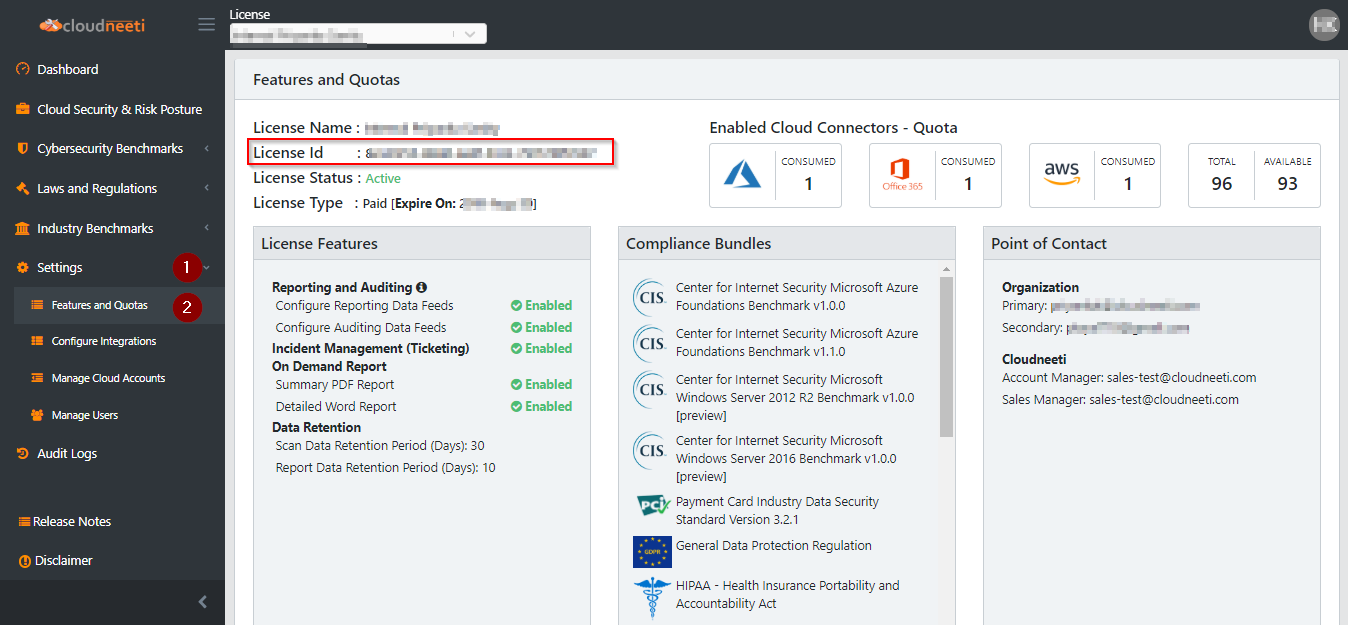
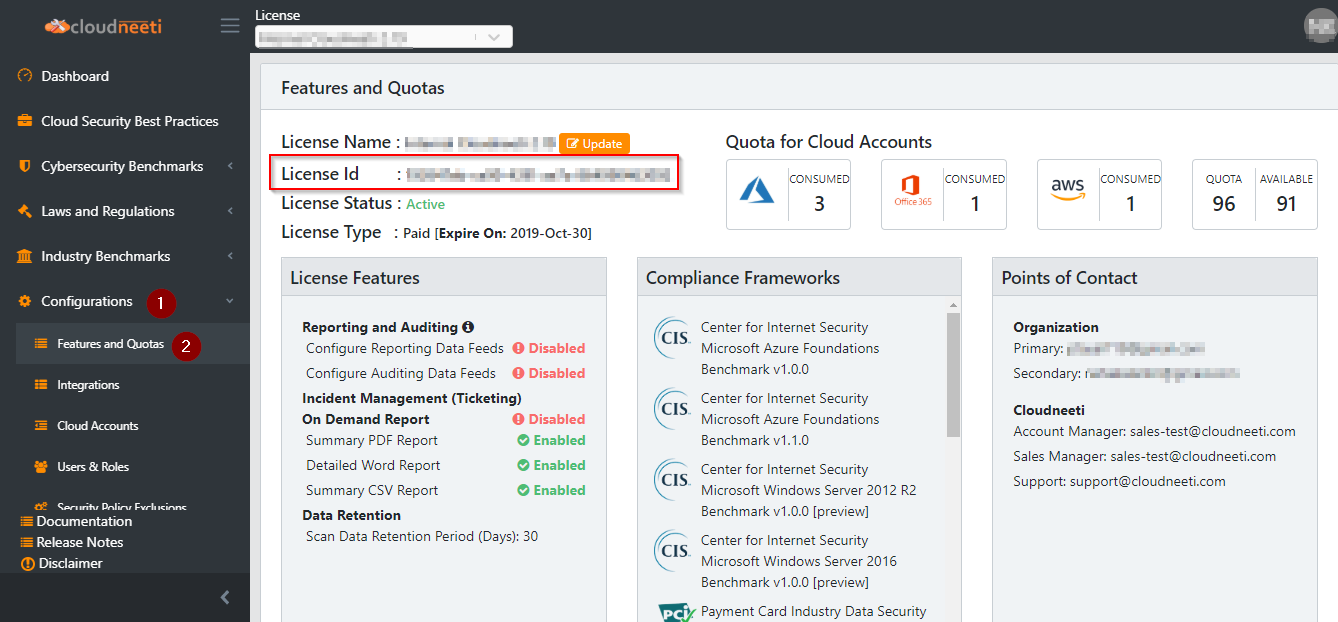
Task 12186 - Updated sequence in 3.1 step added link for enabling MFA

Changed region(s): [[0.0, 0.0, 1.0, 1.0], [0.0, 0.7942, 0.1226, 0.9164], [0.0306, 0.0305, 0.1226, 0.0611]]

diff --git a/docs/onboardingGuide/onboardingOffice365Subscription.md b/docs/onboardingGuide/onboardingOffice365Subscription.md
@@ -84,6 +84,7 @@ this document.
 |-------------------------------------------------|----------------|-------------------|------|
 | Azure Active Directory | Directory Read All Microsoft Graph permissions       | Microsoft Azure   | Global AD Admin    | 
 | Azure Active Directory | Security Events Read All Microsoft Graph permissions | Microsoft Azure   | Global AD Admin    | 
+| Azure Active Directory | DeviceManagementConfiguration.Read.All Microsoft Graph permissions | Microsoft Azure   | Global AD Admin    | 
 | Cloudneeti Agent | Office 365 Global Administrator Access Permission | Microsoft Azure   | Subscription Owner | 
 
 ## STEP 1: Register Cloudneeti Application
@@ -144,6 +145,7 @@ permission [here](https://docs.microsoft.com/en-us/graph/permissions-reference)
 |-----------------|---------------------------------------------------------------------------------------------------------------------|-------------|
 | Microsoft.Graph | Directory.Read.All [Refer here](https://docs.microsoft.com/en-us/graph/permissions-reference#directory-permissions) | Application |
 | Microsoft.Graph | SecurityEvents.Read.All [Refer here](https://docs.microsoft.com/en-us/graph/permissions-reference#security-permissions)                                                                                           | Application |
+| Microsoft.Graph | DeviceManagementConfiguration.Read.All [Refer here](https://docs.microsoft.com/en-us/graph/permissions-reference#intune-device-management-permissions)                                                                                           | Application |
 
 5. Click **Grant admin consent** in the Grant consent section (2)
 	![API Permission](.././images/onboardingOffice365Subscription/Grant_Admin_Consent.png#thumbnail)
@@ -204,6 +206,7 @@ Cloudneeti application to be able to collect the Azure AD data.
 |-----------------|---------------------------------------------------------------------------------------------------------------------|-------------|
 | Microsoft.Graph | Directory.Read.All [Refer here](https://docs.microsoft.com/en-us/graph/permissions-reference#directory-permissions) | Application |
 | Microsoft.Graph | SecurityEvents.Read.All [Refer here](https://docs.microsoft.com/en-us/graph/permissions-reference#security-permissions)  | Application |
+| Microsoft.Graph | DeviceManagementConfiguration.Read.All [Refer here](https://docs.microsoft.com/en-us/graph/permissions-reference#intune-device-management-permissions)                                                                                           | Application |
 
 6. Click **Grant admin consent** in the Grant consent section (2)
 	![Grant_Admin_Consent](.././images/onboardingOffice365Subscription/Grant_Admin_Consent.png#thumbnail)
@@ -330,41 +333,67 @@ Login to Cloudneeti portal as a License Admin.
 
 ##### License id
 
-1. Navigate to **Features and Quotas** under **Settings**
+1. Navigate to **Features and Quotas** under **Configurations**
 2. Copy license ID and paste to notepad.
 	![License id](.././images/onboardingOffice365Subscription/License_Id.png#thumbnail)
 
 ##### Account id
-1. Navigate to **Manage Cloud Accounts** in **Settings**
+1. Navigate to **Cloud Accounts** in **Configurations**
 2. Copy account ID and paste to notepad.
 	![Manage Accounts](.././images/onboardingOffice365Subscription/Manage_Accounts.png#thumbnail)
 
-#### Cloudneeti artifacts and data collector details
-Contact Cloudneeti Team for:
+#### Office 365 details
 
--   Cloudneeti environment
+Office Admin id and office domain can be retrieved from the user id used for
+signing-in like userid\@domain.com.
 
--   ArtifactsName
+Cloudneeti platform queries and processes Office 365 meta-data using a
+non-interactive login credential. As the background job processing is
+non-interactive it’ll require a service account credential. The following is the
+process outlined to create a secure service account credential.
 
--   DataCollectorVersion
+Sign into your Office 365 portal (e.g. <https://outlook.office.com/mail/inbox>)
+as global administrator.
 
--   ArtifactsAccessKey.
+##### Create Office 365 user
+Create Office 365 user with roles **SharePoint Administrator** and **Exchange Administrator**
 
-##### Azure details
+1. Login to [office portal](https://www.office.com)
+2. Click **Admin** to go to **M365 Admin center**
+	
+	![Admin Center](.././images/onboardingOffice365Subscription/M365AdminCenter.png#thumbnail)
 
-Login to Azure portal <https://portal.azure.com> as subscription owner.
+3. Select **Users** 
+4. Click **Add a user**
+5. Fill in Basics and Product License details
 
-##### Azure Subscription ID
+	![Basic info](.././images/onboardingOffice365Subscription/addUser.png#thumbnail)
 
-1. Choose your Azure AD tenant by selecting your **Azure subscription** in the
-    top right corner of the page
-2. Select **Default Directory**
-	![Default Directory](.././images/onboardingOffice365Subscription/Default_Directory.png#thumbnail)
-3. Click on **Subscriptions** (1) on the primary menu
-4. Select the desired **Azure subscription** (2)
-	![Azure subscription](.././images/onboardingOffice365Subscription/Azure_Subscription.png#thumbnail)
-5. Copy **Subscription ID** to a notepad
-	![Subscription ID](.././images/onboardingOffice365Subscription/Subscription_Id.png#thumbnail)
+6. Select **SharePoint Administrator** and **Exchange Administrator** from Common specialist roles
+7. Click **Finish adding**
+
+	![Basic info](.././images/onboardingOffice365Subscription/AdminRoles_Save.png#thumbnail)
+
+
+##### Enable MFA and create application password
+
+Follow [link](https://docs.microsoft.com/en-us/office365/admin/security-and-compliance/set-up-multi-factor-authentication?view=o365-worldwide#set-up-multi-factor-authentication-in-the-new-microsoft-365-admin-center) to enable MFA
+
+
+Sign into your Office 365 portal (e.g. <https://outlook.office.com/mail/inbox>)
+as user created above [step](.././onboardingOffice365Subscription/#create-office-365-user)
+
+1. Choose **My Account Settings**
+	![My Account Settings](.././images/onboardingOffice365Subscription/My_Account_Settings.png#thumbnail)
+2. Select **Security & privacy**
+3. Select **Additional security verification**
+    Note : If you do not see additional security configuration them make sure you have enabled MFA for your user. 
+4. Click **Create and manage app passwords**
+	![Create and manage app passwords](.././images/onboardingOffice365Subscription/Manage_Password.png#thumbnail)
+5. Select **app passwords**
+6. Click **create**
+7. Get an app password
+	![App Password](.././images/onboardingOffice365Subscription/App_Password.png#thumbnail)
 
 #### Generate Cloudneeti API key
 
@@ -404,54 +433,37 @@ Once you receive the confirmation, proceed with the following steps.
 4. Copy the **Primary key** to your notepad.
 	![Primary key](.././images/onboardingOffice365Subscription/Primary_key.png#thumbnail)
 
-#### Office 365 details
-
-Office Admin id and office domain can be retrieved from the user id used for
-signing-in like userid\@domain.com.
-
-Cloudneeti platform queries and processes Office 365 meta-data using a
-non-interactive login credential. As the background job processing is
-non-interactive it’ll require a service account credential. The following is the
-process outlined to create a secure service account credential.
-
-Sign into your Office 365 portal (e.g. <https://outlook.office.com/mail/inbox>)
-as global administrator.
-
-##### Create Office 365 user
-Create Office 365 user with roles **SharePoint Administrator** and **Exchange Administrator**
-
-1. Login to [office portal](https://www.office.com)
-2. Click **Admin** to go to **M365 Admin center**
-	
-	![Admin Center](.././images/onboardingOffice365Subscription/M365AdminCenter.png#thumbnail)
-
-3. Select **Users** 
-4. Click **Add a user**
-5. Fill in Basics and Product License details
-
-	![Basic info](.././images/onboardingOffice365Subscription/addUser.png#thumbnail)
-
-6. Select **SharePoint Administrator** and **Exchange Administrator** from Common specialist roles
-7. Click **Finish adding**
-
-	![Basic info](.././images/onboardingOffice365Subscription/AdminRoles_Save.png#thumbnail)
 
 
-##### Enable MFA and create application password
+#### Cloudneeti artifacts and data collector details
+Contact Cloudneeti Team for:
 
-Sign into your Office 365 portal (e.g. <https://outlook.office.com/mail/inbox>)
-as user created above [step](.././onboardingOffice365Subscription/#create-office-365-user)
+-   Cloudneeti environment
 
-1. Choose **My Account Settings**
-	![My Account Settings](.././images/onboardingOffice365Subscription/My_Account_Settings.png#thumbnail)
-2. Select **Security & privacy**
-3. Select **Additional security verification**
-4. Click **Create and manage app passwords**
-	![Create and manage app passwords](.././images/onboardingOffice365Subscription/Manage_Password.png#thumbnail)
-5. Select **app passwords**
-6. Click **create**
-7. Get an app password
-	![App Password](.././images/onboardingOffice365Subscription/App_Password.png#thumbnail)
+-   ArtifactsName
+
+-   DataCollectorVersion
+
+-   ArtifactsAccessKey
+
+
+##### Azure details
+
+Login to Azure portal <https://portal.azure.com> as subscription owner.
+
+##### Azure Subscription ID
+
+1. Choose your Azure AD tenant by selecting your **Azure subscription** in the
+    top right corner of the page
+2. Select **Default Directory**
+	![Default Directory](.././images/onboardingOffice365Subscription/Default_Directory.png#thumbnail)
+3. Click on **Subscriptions** (1) on the primary menu
+4. Select the desired **Azure subscription** (2)
+	![Azure subscription](.././images/onboardingOffice365Subscription/Azure_Subscription.png#thumbnail)
+5. Copy **Subscription ID** to a notepad
+	![Subscription ID](.././images/onboardingOffice365Subscription/Subscription_Id.png#thumbnail)
+
+
 
 ### 3.2 Provision Office 365 data collector 
 
@@ -553,6 +565,24 @@ Cloudneeti portal will show details for policies from next scan.
 The following Security Policies will be excluded if advanced security
 configuration is not done.
 
+### Micorosft graph permission - DeviceManagementConfiguration.Read.All
+Microsoft graph permission DeviceManagementConfiguration.Read.All is required to collect data for device related security policies listed below.
+
+| **Policy-Id** | **Policy Name**                                                                                                                                                    | **Category**                     |
+|---------------|--------------------------------------------------------------------------------------------------------------------------------------------------------------------|----------------------------------|
+| M300.1        | 1. Ensure that mobile devices require complex passwords with atleast two character sets to prevent brute force attacks                                                                                      | Device         |
+| M300.2          | 1. Ensure that mobile device encryption is enabled to prevent unauthorized access to mobile data                                                                                      | Device         |
+| M300.3          | 1. Require mobile devices to manage email profile                                                                                      | Device         |
+| M300.4          | 1. Ensure that mobile devices require a complex password with a minimum password length to prevent brute force attacks                                                                                     | Device         |
+| M300.6          | 2. Ensure that mobile devices are set to never expire passwords                                                                                      | Device         |
+| M300.7          | 1. Require mobile devices to use a password                                                                                     | Device         |
+| M300.8          | 1. Ensure that users cannot connect from devices that are jail broken or rooted                                                                                       | Device         |
+| M300.9         | 1. Ensure that mobile devices require complex passwords to prevent brute force attacks                                                                                     | Device         |
+| M300.10          | 1. Enable mobile devices to wipe on multiple sign-in failures to prevent brute force compromise                                                                                    | Device         |
+| M300.12          | 1. Ensure that settings are enable to lock multiple devices after a period of inactivity to prevent unauthorized access                                                                                       | Device         |
+| M300.13          | 1. Ensure that mobile device password reuse is prohibited                                                                                       | Device         |
+| M300.35          | 1. Ensure that devices connecting have local firewall enabled                                                                                     | Device         |
+
 ### Advanced security configuration
 
 The advanced security policy data collector enables the following 19 policies as
@@ -562,25 +592,26 @@ available in the Center for Internet Security (CIS) Microsoft 365 benchmark
 
 | **Policy-Id** | **Policy Name**                                                                                                                                                    | **Category**                     |
 |---------------|--------------------------------------------------------------------------------------------------------------------------------------------------------------------|----------------------------------|
-| 1.6           | 1. (L1) Ensure modern authentication for SharePoint applications is required                                                                                       | Account / Authentication         |
-| 2.2           | 2. (L2) Ensure calendar details sharing with external users is disabled                                                                                            | Application Permissions          |
-| 2.3           | 3. (L2) Ensure Office 365 ATP SafeLinks for Office Applications is Enabled                                                                                         | Application Permissions          |
-| 2.4           | 4. (L2) Ensure Office 365 ATP for SharePoint, OneDrive, and Microsoft Teams is Enabled                                                                             | Application Permissions          |
-| 3.5           | 5. (L2) Ensure that external users cannot share files, folders, and sites they do not own                                                                          | Data Management                  |
-| 4.10          | 6. (L1) Ensure that DKIM is enabled for all Exchange Online Domains                                                                                                | Email Security / Exchange Online |
-| 4.1           | 7. (L1) Ensure Common Attachment Types Filter is set to ON                                                                                                         | Email Security / Exchange Online |
-| 4.11          | 8. (L1) Ensure that SPF records are published for all Exchange Domains                                                                                             | Email Security / Exchange Online |
-| 4.12          | 9. (L1) Ensure DMARC Records for all Exchange Online domains are published                                                                                         | Email Security / Exchange Online |
-| 4.13          | 10. (L1) Ensure notifications for internal users sending malware is Enabled                                                                                        | Email Security / Exchange Online |
-| 4.2           | 11. (L1) Ensure Exchange Online Spam Policies is set to copy and notify someone when a sender in your tenant has been blocked for sending excessive or spam emails | Email Security / Exchange Online |
-| 4.4           | 12. (L1) Ensure Exchange Online mail transport rules do not whitelist specific domains                                                                             | Email Security / Exchange Online |
-| 4.5           | 13. (L2) Ensure Client Rules Forwarding Block is enabled                                                                                                           | Email Security / Exchange Online |
-| 4.9           | 14. (L1) Ensure that an anti-phishing policy has been created                                                                                                      | Email Security / Exchange Online |
-| 5.1           | 15. (L1) Enable Microsoft 365 audit log search                                                                                                                     | Auditing                         |
-| 5.10          | 16. (L1) Ensure account provisioning activity report is reviewed weekly                                                                                            | Auditing                         |
-| 5.12          | 17. (L1) Ensure the spoofed domains report is review weekly                                                                                                        | Auditing                         |
-| 5.6           | 18. (L1) Ensure user role group changes is reviewed at least every week                                                                                            | Auditing                         |
-| 6.1           | 19. (L2) Ensure that document sharing is being controlled by domains with white/blacklist                                                                          | Storage                          |
+| M500.01         | 1. (L1) Ensure modern authentication for SharePoint applications is required                                                                                       | Account / Authentication         |
+| M600.01           | 2. (L2) Ensure calendar details sharing with external users is disabled                                                                                            | Application Permissions          |
+| M600.02           | 3. (L2) Ensure Office 365 ATP SafeLinks for Office Applications is Enabled                                                                                         | Application Permissions          |
+| M600.03           | 4. (L2) Ensure Office 365 ATP for SharePoint, OneDrive, and Microsoft Teams is Enabled                                                                             | Application Permissions          |
+| M700.02          | 5. (L2) Ensure that external users cannot share files, folders, and sites they do not own                                                                          | Data Management                  |
+| M800.01         | 6. (L1) Ensure that DKIM is enabled for all Exchange Online Domains                                                                                                | Email Security / Exchange Online |
+| M800.09          | 7. (L1) Ensure Common Attachment Types Filter is set to ON                                                                                                         | Email Security / Exchange Online |
+| M800.02          | 8. (L1) Ensure that SPF records are published for all Exchange Domains                                                                                             | Email Security / Exchange Online |
+| M800.03          | 9. (L1) Ensure DMARC Records for all Exchange Online domains are published                                                                                         | Email Security / Exchange Online |
+| M800.04          | 10. (L1) Ensure notifications for internal users sending malware is Enabled                                                                                        | Email Security / Exchange Online |
+| M800.05           | 11. (L1) Ensure Exchange Online Spam Policies is set to copy and notify someone when a sender in your tenant has been blocked for sending excessive or spam emails | Email Security / Exchange Online |
+| M800.06          | 12. (L1) Ensure Exchange Online mail transport rules do not whitelist specific domains                                                                             | Email Security / Exchange Online |
+| M800.07           | 13. (L2) Ensure Client Rules Forwarding Block is enabled                                                                                                           | Email Security / Exchange Online |
+| M800.08           | 14. (L1) Ensure that an anti-phishing policy has been created                                                                                                      | Email Security / Exchange Online |
+| M009.01           | 15. (L1) Enable Microsoft 365 audit log search                                                                                                                     | Auditing                         |
+| M009.02          | 16. (L1) Ensure account provisioning activity report is reviewed weekly                                                                                            | Auditing                         |
+| M009.03         | 17. (L1) Ensure the spoofed domains report is review weekly                                                                                                        | Auditing                         |
+| M009.04           | 18. (L1) Ensure user role group changes is reviewed at least every week                                                                                            | Auditing                         |
+| M010.1           | 19. (L2) Ensure that document sharing is being controlled by domains with white/blacklist                                                                          | Storage                          |
+
 
 <div class="policy-json-code">
 <pre>

diff --git a/docs/onboardingGuide/azureSubscriptions.md b/docs/onboardingGuide/azureSubscriptions.md
@@ -56,14 +56,14 @@ Cloudneeti application will not be able to collect the data for the related
 policies. Excluded security policies by permission are listed later in this
 document.
 
-| Information                                                 | Portal to use     | Role               | Step     | Type      | Policies     |
-|-------------------------------------------------------------|-------------------|--------------------|----------|-----------|--------------|
-| Directory Read All Microsoft Graph permissions              | Microsoft Azure   | Global AD Admin    | STEP 1   | optional  | 5            |
-| Reader role for Azure Subscription level scope              | Microsoft Azure   | Subscription Owner | STEP 2   | mandatory | 0            |
-| Backup reader role for Azure Subscription level scope       | Microsoft Azure   | Subscription Owner | STEP 2   | optional  | 4            |
-| Website contributor role for Azure Subscription level scope | Microsoft Azure   | Subscription Owner | STEP 2   | optional  | 15           |
-| Storage Account Contributor role for Azure Subscription level scope  | Microsoft Azure   | Subscription Owner | STEP 2   | optional  | 1            |
-| Key Vault access policies for specific managed Key Vaults   | Microsoft Azure   | Subscription Owner | STEP 2   | optional  | 1            |
+| Object | Role / Permission                                                 | Portal to use     | Role               | Step     | Type      | Policies     |
+|------|-------------------------------------------------------------|-------------------|--------------------|----------|-----------|--------------|
+| Azure Active Directory | Directory Read All Microsoft Graph              | Microsoft Azure   | Global AD Admin    | STEP 1   | optional  | 5            |
+| Azure Subscription | Reader              | Microsoft Azure   | Subscription Owner | STEP 2   | mandatory | 0            |
+| Azure Subscription | Backup reader        | Microsoft Azure   | Subscription Owner | STEP 2   | optional  | 4            |
+| Azure Subscription | Website contributor | Microsoft Azure   | Subscription Owner | STEP 2   | optional  | 15           |
+| Azure Subscription | Storage Account Contributor | Microsoft Azure   | Subscription Owner | STEP 2   | optional  | 1            |
+| Key Vault | Access Policy   | Microsoft Azure   | Subscription Owner | STEP 2   | optional  | 1            |
 
 ## STEP 1: Register Cloudneeti application Manually or using Azure powershell script
 
@@ -383,7 +383,7 @@ before they can be displayed in Cloudneeti dashboards.
 
 Congratulations! You have added an Azure subscription to Cloudneeti application.
 
-## Security Polices with Required Permissions
+## Security Polices with required roles, permissions
 
 The following Security Policies will be excluded if one or multiple roles are
 not assigned.

diff --git a/docs/onboardingGuide/amazonWebServiceAccounts.md b/docs/onboardingGuide/amazonWebServiceAccounts.md
@@ -148,7 +148,13 @@ Sign into your AWS account.
 ## STEP 3: Add AWS Account
 The following steps are executed by Cloudneeti application **License Admin** role.
 
-### 3.1 Add AWS Account
+### 3.1 Activate the License
+
+1.  Log in to the Cloudneeti application with **License Admin** role.
+2.  Click on **Activate License**
+    ![Activate License](.././images/azureSubscriptions/Activate_License.png#thumbnail)
+
+### 3.2 Add AWS Account
 Log into the Cloudneeti application.
 
 1.	Select **AWS connector** (1) and click **Continue**(2)
@@ -162,7 +168,7 @@ Log into the Cloudneeti application.
     ![Add account](.././images/amazonWebServiceAccounts/Add_Account.png#thumbnail)
 
 
-### 3.2 Data Collection
+### 3.3 Data Collection
 Once the AWS account is added to the cloud account under the Cloudneeti License, it requires about 5 minutes for the data to be collected and processed,before they can be displayed in Cloudneeti dashboards. 
 
 1.	Select **Dashboard** on the menu

diff --git a/docs/administratorGuide/configureNotifications.md b/docs/administratorGuide/configureNotifications.md
@@ -2,9 +2,9 @@
 
 Scan notifications allow a cloud account user to subscribe to changes in security posture. To receive email notifications on a scan from Cloudneeti Bot, please refer following steps.
 
-1.	On Cloudneeti portal, navigate to **Settings**
+1.	On Cloudneeti portal, navigate to **Configurations**
 
-2.	Click on **Manage Cloud Accounts**
+2.	Click on **Cloud Accounts**
 
 3.  Select desired License and Account 
 
